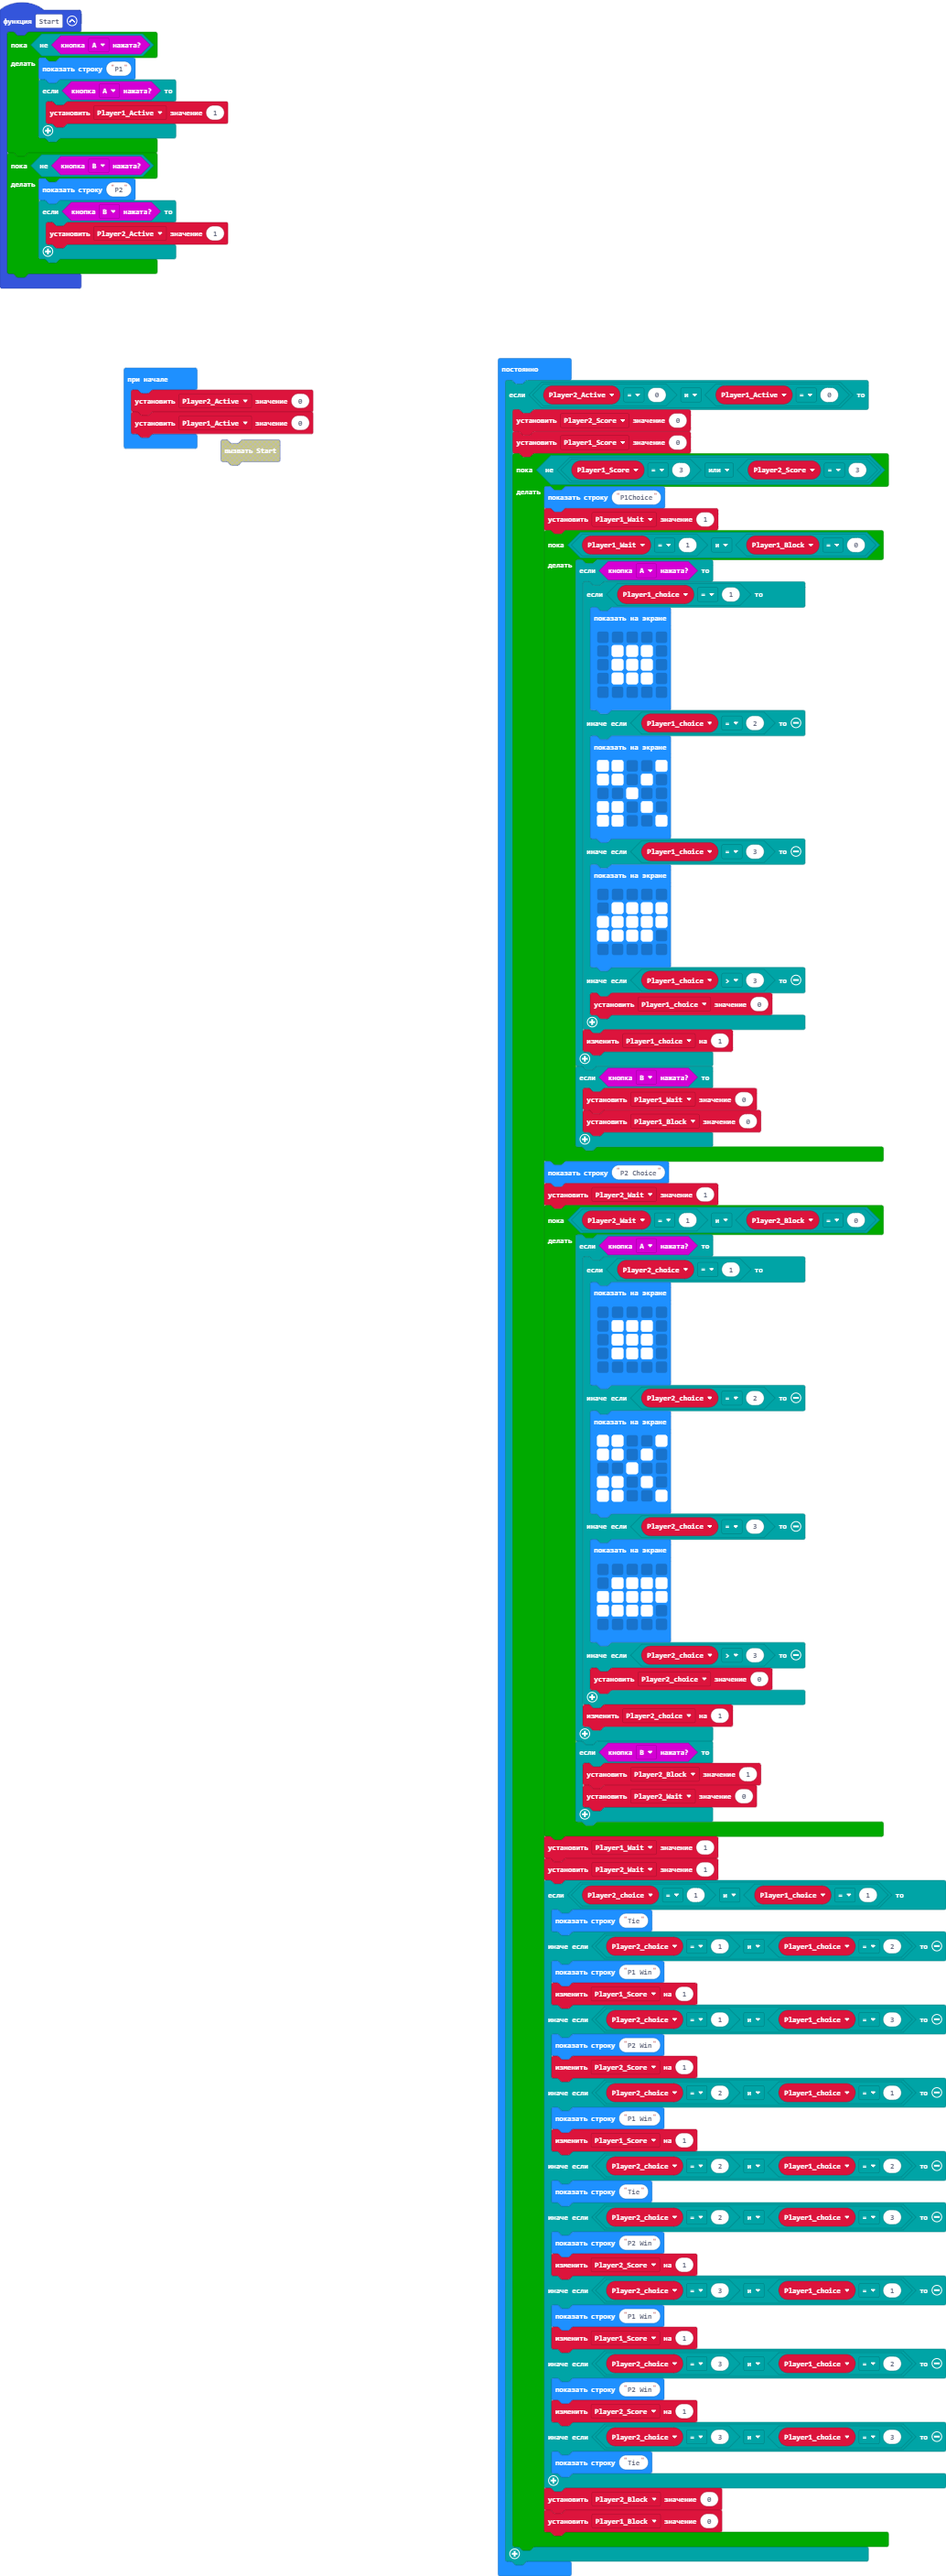
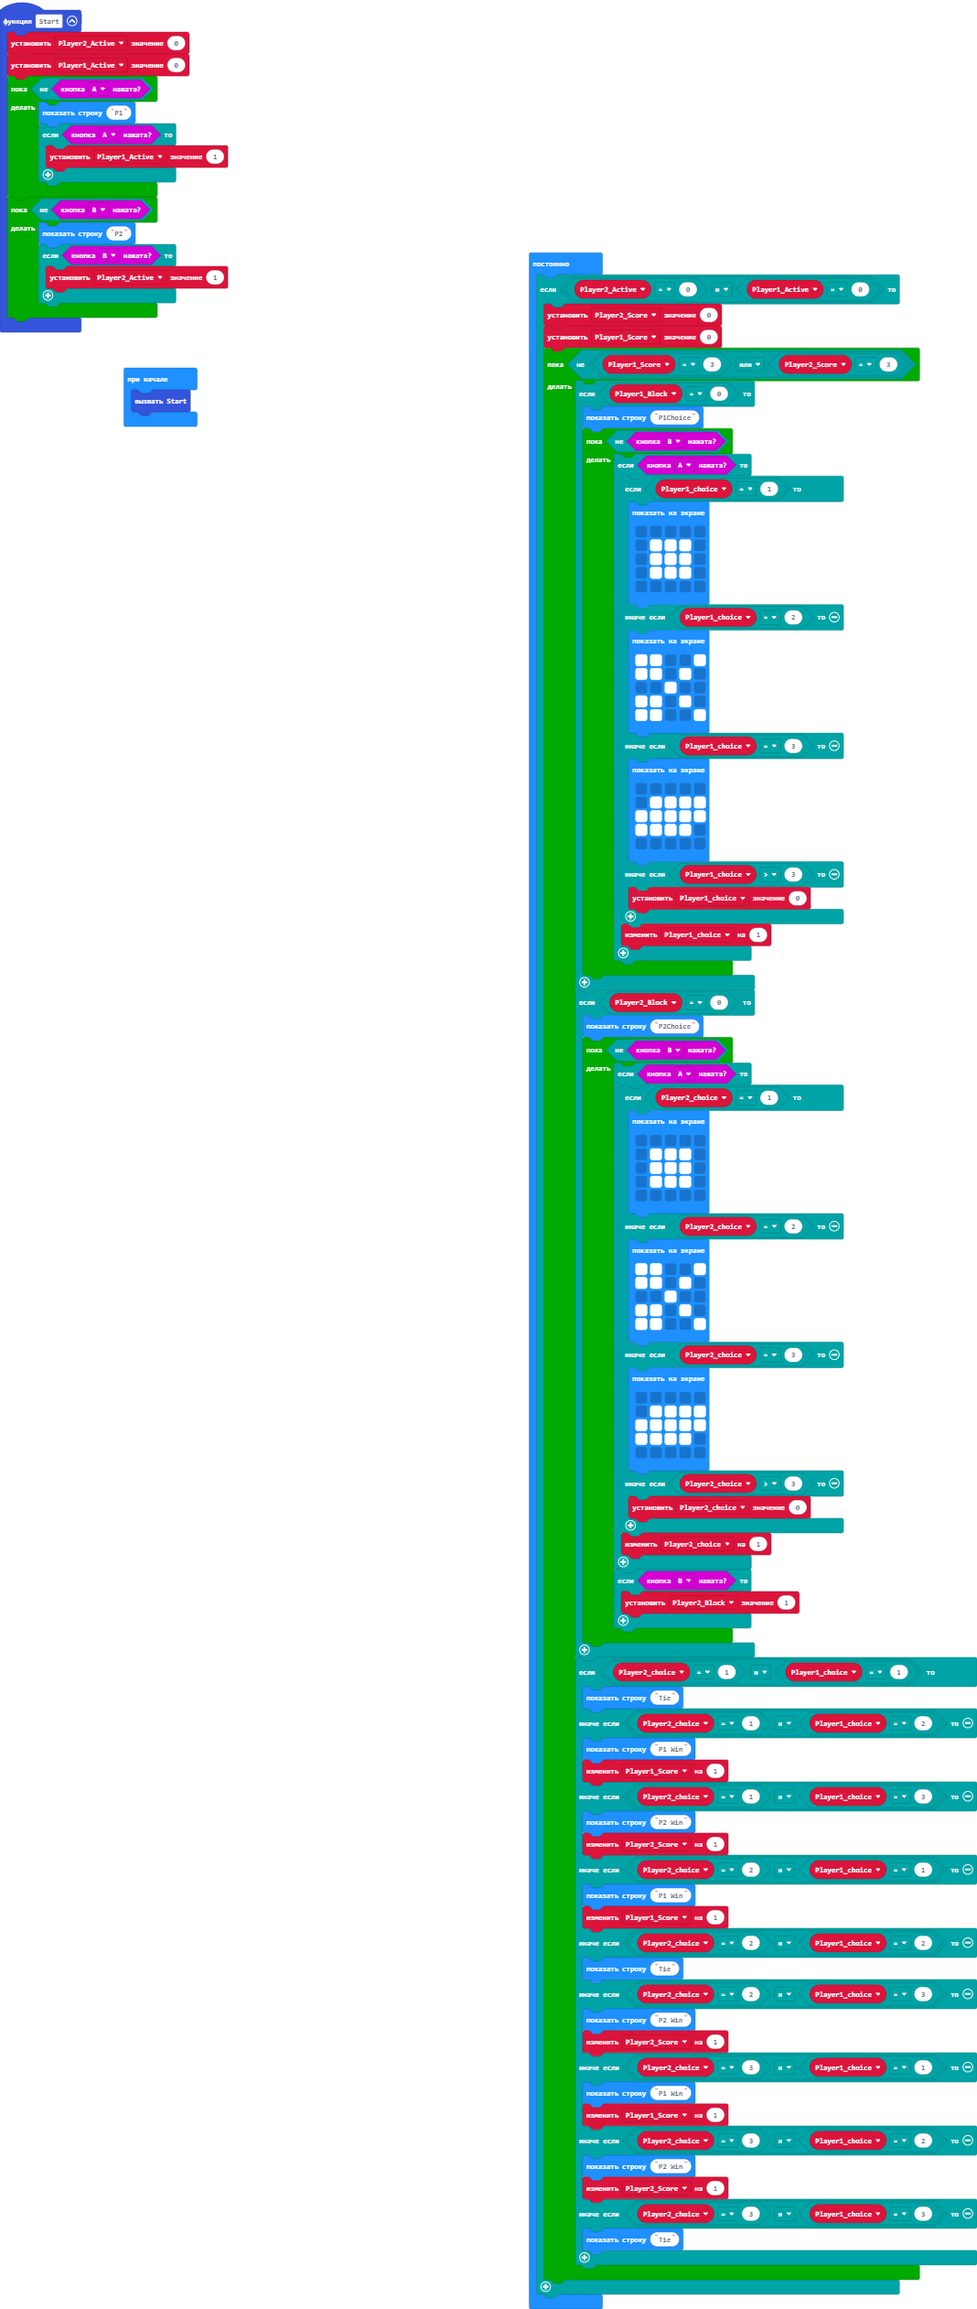
Обновить pxt.json, main.blocks, main.ts

Changed region(s): [[0.5261, 0.0927, 1.0, 1.0], [0.0, 0.0, 0.3404, 0.1855]]

diff --git a/main.ts b/main.ts
@@ -1,4 +1,6 @@
 function Start () {
+    Player2_Active = 0
+    Player1_Active = 0
     while (!(input.buttonIsPressed(Button.A))) {
         basic.showString("P1")
         if (input.buttonIsPressed(Button.A)) {
@@ -14,99 +16,91 @@ function Start () {
 }
 let Player2_choice = 0
 let Player2_Block = 0
-let Player2_Wait = 0
 let Player1_choice = 0
-let Player1_Block = 0
-let Player1_Wait = 0
 let Player1_Score = 0
 let Player2_Score = 0
 let Player1_Active = 0
 let Player2_Active = 0
-Player2_Active = 0
-Player1_Active = 0
+Start()
 basic.forever(function () {
     if (Player2_Active == 0 && Player1_Active == 0) {
         Player2_Score = 0
         Player1_Score = 0
         while (!(Player1_Score == 3 || Player2_Score == 3)) {
-            basic.showString("P1Choice")
-            Player1_Wait = 1
-            while (Player1_Wait == 1 && Player1_Block == 0) {
-                if (input.buttonIsPressed(Button.A)) {
-                    if (Player1_choice == 1) {
-                        basic.showLeds(`
-                            . . . . .
-                            . # # # .
-                            . # # # .
-                            . # # # .
-                            . . . . .
-                            `)
-                    } else if (Player1_choice == 2) {
-                        basic.showLeds(`
-                            # # . . #
-                            # # . # .
-                            . . # . .
-                            # # . # .
-                            # # . . #
-                            `)
-                    } else if (Player1_choice == 3) {
-                        basic.showLeds(`
-                            . . . . .
-                            . # # # #
-                            # # # # #
-                            # # # # .
-                            . . . . .
-                            `)
-                    } else if (Player1_choice > 3) {
-                        Player1_choice = 0
+            let Player1_Block = 0
+            if (Player1_Block == 0) {
+                basic.showString("P1Choice")
+                while (!(input.buttonIsPressed(Button.B))) {
+                    if (input.buttonIsPressed(Button.A)) {
+                        if (Player1_choice == 1) {
+                            basic.showLeds(`
+                                . . . . .
+                                . # # # .
+                                . # # # .
+                                . # # # .
+                                . . . . .
+                                `)
+                        } else if (Player1_choice == 2) {
+                            basic.showLeds(`
+                                # # . . #
+                                # # . # .
+                                . . # . .
+                                # # . # .
+                                # # . . #
+                                `)
+                        } else if (Player1_choice == 3) {
+                            basic.showLeds(`
+                                . . . . .
+                                . # # # #
+                                # # # # #
+                                # # # # .
+                                . . . . .
+                                `)
+                        } else if (Player1_choice > 3) {
+                            Player1_choice = 0
+                        }
+                        Player1_choice += 1
                     }
-                    Player1_choice += 1
-                }
-                if (input.buttonIsPressed(Button.B)) {
-                    Player1_Wait = 0
-                    Player1_Block = 0
                 }
             }
-            basic.showString("P2 Choice")
-            Player2_Wait = 1
-            while (Player2_Wait == 1 && Player2_Block == 0) {
-                if (input.buttonIsPressed(Button.A)) {
-                    if (Player2_choice == 1) {
-                        basic.showLeds(`
-                            . . . . .
-                            . # # # .
-                            . # # # .
-                            . # # # .
-                            . . . . .
-                            `)
-                    } else if (Player2_choice == 2) {
-                        basic.showLeds(`
-                            # # . . #
-                            # # . # .
-                            . . # . .
-                            # # . # .
-                            # # . . #
-                            `)
-                    } else if (Player2_choice == 3) {
-                        basic.showLeds(`
-                            . . . . .
-                            . # # # #
-                            # # # # #
-                            # # # # .
-                            . . . . .
-                            `)
-                    } else if (Player2_choice > 3) {
-                        Player2_choice = 0
+            if (Player2_Block == 0) {
+                basic.showString("P2Choice")
+                while (!(input.buttonIsPressed(Button.B))) {
+                    if (input.buttonIsPressed(Button.A)) {
+                        if (Player2_choice == 1) {
+                            basic.showLeds(`
+                                . . . . .
+                                . # # # .
+                                . # # # .
+                                . # # # .
+                                . . . . .
+                                `)
+                        } else if (Player2_choice == 2) {
+                            basic.showLeds(`
+                                # # . . #
+                                # # . # .
+                                . . # . .
+                                # # . # .
+                                # # . . #
+                                `)
+                        } else if (Player2_choice == 3) {
+                            basic.showLeds(`
+                                . . . . .
+                                . # # # #
+                                # # # # #
+                                # # # # .
+                                . . . . .
+                                `)
+                        } else if (Player2_choice > 3) {
+                            Player2_choice = 0
+                        }
+                        Player2_choice += 1
                     }
-                    Player2_choice += 1
-                }
-                if (input.buttonIsPressed(Button.B)) {
-                    Player2_Block = 1
-                    Player2_Wait = 0
+                    if (input.buttonIsPressed(Button.B)) {
+                        Player2_Block = 1
+                    }
                 }
             }
-            Player1_Wait = 1
-            Player2_Wait = 1
             if (Player2_choice == 1 && Player1_choice == 1) {
                 basic.showString("Tie")
             } else if (Player2_choice == 1 && Player1_choice == 2) {
@@ -132,8 +126,6 @@ basic.forever(function () {
             } else if (Player2_choice == 3 && Player1_choice == 3) {
                 basic.showString("Tie")
             }
-            Player2_Block = 0
-            Player1_Block = 0
         }
     }
 })
